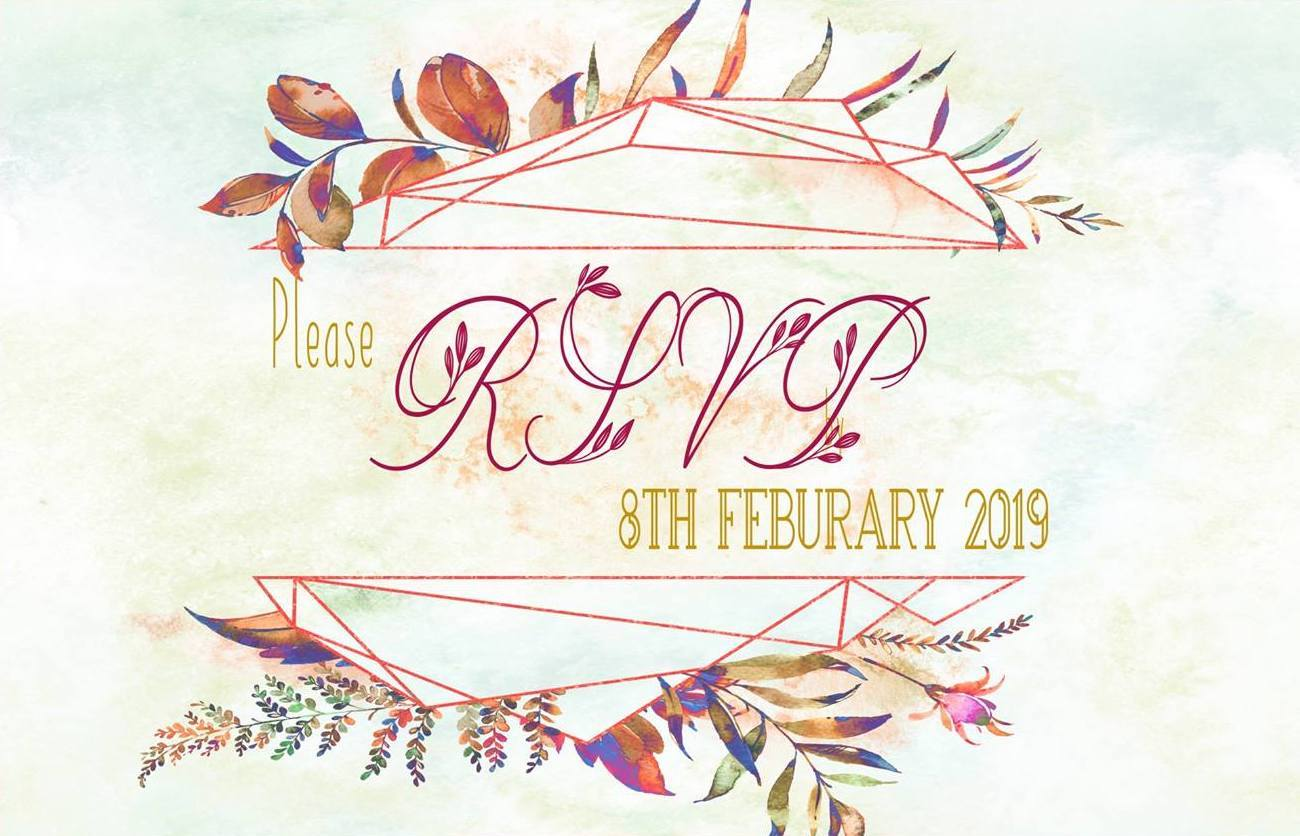
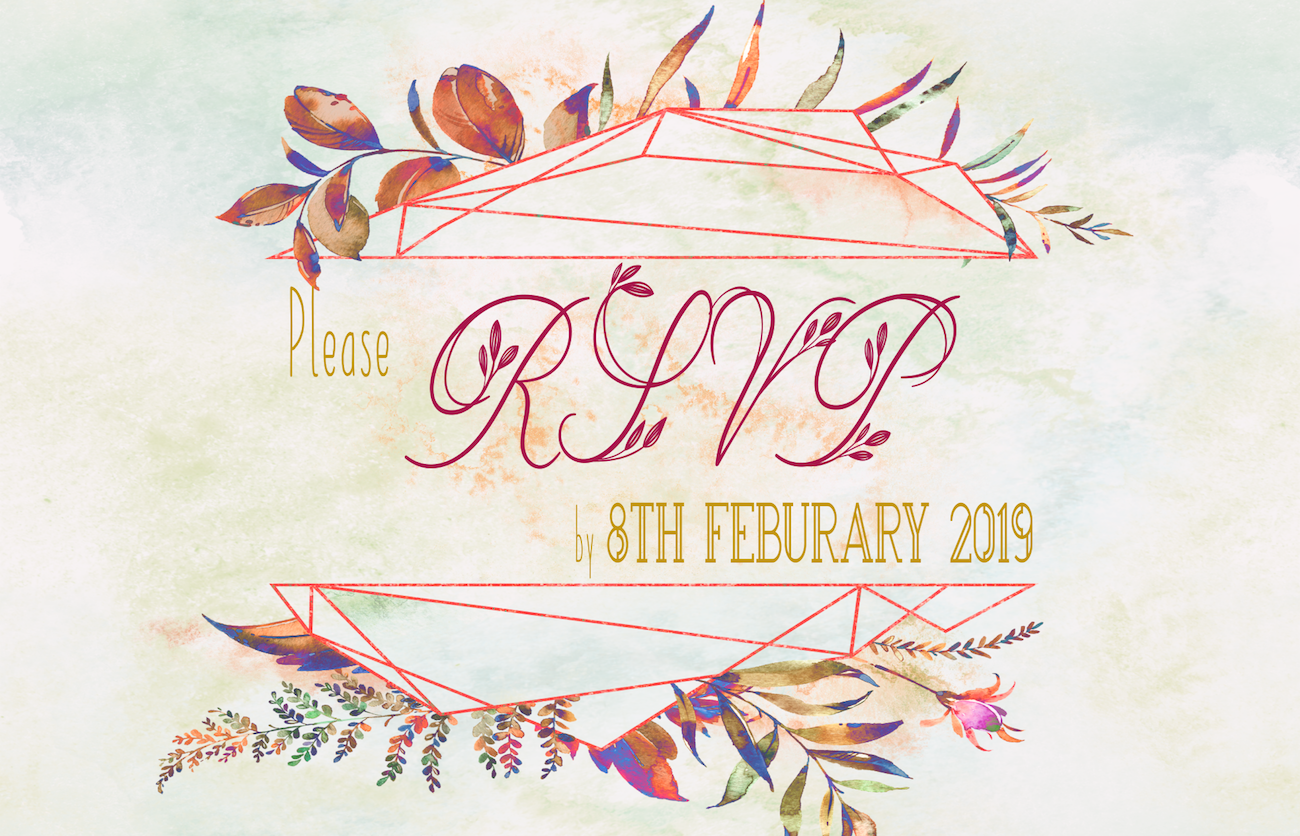
Updates include RSVP form, home background image, and countdown

Changed region(s): [[0.0923, 0.0, 0.8615, 1.0]]

diff --git a/static/index.html b/static/index.html
@@ -15,13 +15,22 @@
         <![endif]-->
         <link rel="stylesheet" href="css/screen.css">
         <script src="js/vendor/modernizr.touch.js"></script>
+        <script>
+            function ClickRSVPSection() {
+                document.getElementById("rsvp").getElementsByClassName('first')[0].style.visibility = "hidden";
+                document.getElementById("rsvp").getElementsByClassName('second')[0].style.visibility = "visible";
+            }
+        </script>
+        <script>
+            function ClickSubmitForm() {
+                document.getElementById("rsvp").getElementsByClassName('second')[0].style.visibility = "hidden";
+                document.getElementById("rsvp").getElementsByClassName('third')[0].style.visibility = "visible";
+            }
+        </script>
     </head>
 
     <body data-spy="scroll" data-target="#navigation">
         <div class="container">
-            <!--[if lt IE 7]>
-                <p class="chromeframe">You are using an <strong>outdated</strong> browser. Please <a href="http://browsehappy.com/">upgrade your browser</a> or <a href="http://www.google.com/chromeframe/?redirect=true">activate Google Chrome Frame</a> to improve your experience.</p>
-            <![endif]-->
             <section id="home" data-730="display:block;" data-731="display:none;">
                 <div class="image" data-10="top: 0px;" data-750="top: -60px;"></div>
                 <p id="daysCountdown"></p>
@@ -128,7 +137,52 @@
                 <a class="carousel-control right icn-slideshow-right" href="#gallery" data-slide="next">&rsaquo;</a>
             </section>-->
 
-            <section id="rsvp" data-bg="img/bg/backgroundObject6-0.jpg">
+            <section id="rsvp" onclick="ClickRSVPSection()">
+                <div class="first">
+
+                </div>
+                
+                <div class="second">
+                    <form class="form" action="https://docs.google.com/forms/d/e/1FAIpQLSctElK4MYsF1MHVGqvx45JdUXc2eZqYO9KFOZXX070PdbmJFQ/formResponse" method="POST"
+                    onsubmit="ClickSubmitForm()">
+                        <label>I</label>
+                        <select name="entry.365794943">
+                            <option selected disabled>Choose</option>
+                            <option value="Test">Test</option>
+                            <option value="Elisa Horne">Elisa Horne</option>
+                            <option value="Glenn Horne">Glenn Horne</option>
+                            <option value="Karen Horne">Karen Horne</option>
+                            <option value="Jarrod Horne">Jarrod Horne</option>
+                        </select>
+                        
+                        <label></label>
+                        <input type="radio" name="entry.1263165735" id="e1" value="Accept"/>
+                        <label for="e1">Gratefully accept</label>
+                        <input type="radio" name="entry.1263165735" id="e2" value="Decline"/>
+                        <label for="e2">Decline with regret</label>
+
+                        <label>Would you be interested in using a shuttle bus back to Berrima or Bowral at the end of the night?</label>
+                        <select name="entry.1211962599">
+                            <option selected disabled>Choose</option>
+                            <option value="Yes, to Berrima">Yes, to Berrima</option>
+                            <option value="Yes, to Bowral">Yes, to Bowral</option>
+                            <option value="No">No</option>
+                        </select>
+
+                        <label>Do you think you will be joining us for dinner on Sunday night?</label>
+                        <select name="entry.1772319321">
+                            <option selected disabled>Choose</option>
+                            <option value="Yes">Yes</option>
+                            <option value="No">No</option>
+                        </select>
+                
+                        <input type="submit" value="Send"/>
+                    </form>
+                </div>
+
+                <div class="third">
+
+                </div>
             </section>
             
             <section id="registry" data-bg="img/bg/backgroundObject5.jpg">
@@ -167,6 +221,7 @@
             <script src="js/vendor/skrollr.ie.min.js"></script>
         <![endif]-->
         <script src="js/main.js"></script>
+
         <script>
             (function(i,s,o,g,r,a,m){i['GoogleAnalyticsObject']=r;i[r]=i[r]||function(){
             (i[r].q=i[r].q||[]).push(arguments)},i[r].l=1*new Date();a=s.createElement(o),
@@ -205,6 +260,91 @@
                 document.getElementById("daysCountdown").innerHTML = "Tied the knot on April 8, 2019";
             }
             }, 1000);
+        </script>
+        <script type="text/javascript">
+            var FB_PUBLIC_LOAD_DATA_ = [null,[null,[[762129084,"Select Your Name",null,3,
+            [[365794943,[["Karen Horne",null,2027755872,null,0]
+            ,["Glenn Horne",null,1202977443,null,0]
+            ,["Elisa Horne",null,1910569673,null,0]
+            ,["Lachlan Ma",null,852915707,null,0]
+            ,["Lorraine Robertson",null,-2,null,0]
+            ,["Test",null,-2,null,0]
+            ]
+            ,1,null,null,null,null,null,0]
+            ]
+            ]
+            ,[1701974672,null,null,2,[[1263165735,[["Gratefully Accept",null,null,null,0]
+            ,["Decline With Regret",null,null,null,0]
+            ]
+            ,1,null,null,null,null,null,0]
+            ]
+            ]
+            ,[2136973238,"Would you be interested in using a shuttle bus back to Berrima or Bowral at the end of the night?",null,3,[[1211962599,[["Yes",null,-2,null,0]
+            ,["No",null,-2,null,0]
+            ,["Maybe",null,-2,null,0]
+            ]
+            ,1,null,null,null,null,null,0]
+            ]
+            ]
+            ,[1855001924,"Do you think you will be joining us for dinner on Sunday night?",null,3,[[1772319321,[["Yes",null,null,null,0]
+            ,["No",null,null,null,0]
+            ,["Maybe",null,null,null,0]
+            ]
+            ,1,null,null,null,null,null,0]
+            ]
+            ]
+            ,[75878095,null,null,8,null,-3]
+            ,[1519065388,"Which town would you want a shuttle bus to?",null,3,[[1572815929,[["Berrima",null,null,null,0]
+            ,["Bowral",null,null,null,0]
+            ,["Either",null,null,null,0]
+            ]
+            ,0,null,null,null,null,null,0]
+            ]
+            ]
+            ,[2027755872,"Karen Horne Selected",null,8,null,-3]
+            ,[87089643,null,null,3,[[1827777894,[["Glenn Horne",null,null,null,0]
+            ]
+            ,0,null,null,null,null,null,0]
+            ]
+            ]
+            ,[1202977443,"Glenn Horne Selected",null,8]
+            ,[1290522336,null,null,3,[[1870214740,[["Karen Horne",null,null,null,0]
+            ]
+            ,0,null,null,null,null,null,0]
+            ]
+            ]
+            ,[1910569673,"Elisa Horne Selected",null,8]
+            ,[2128785363,null,null,3,[[548647646,[["Lachlan Ma",null,null,null,0]
+            ]
+            ,0,null,null,null,null,null,0]
+            ]
+            ]
+            ,[852915707,"Lachlan Ma Selected",null,8]
+            ,[1061048219,null,null,3,[[492798150,[["Elisa Horne",null,null,null,0]
+            ]
+            ,0,null,null,null,null,null,0]
+            ]
+            ]
+            ]
+            ,["Thank you for your RSVP",0,0,0,0]
+            ,null,null,[0,0]
+            ,null,null,"RSVP",38,[null,0,null,2,0]
+            ,null,null,null,null,[2]
+            ,[[1,1,1,1,1]
+            ,1]
+            ,null,[]
+            ]
+            ,"/forms","Wedding RSVP","",["1qVTJNs2S5Gy8WGU8V2c4qtYmlldR4UsaCmSo8A9I6yI",3,["1758416516"]
+            ]
+            ,[[1,"https://docs.google.com/[domain]spreadsheet/ccc?key\u003d[key]\u0026usp\u003d[usp]#gid\u003dform"]
+            ,[2,"//www.google.com/fusiontables/data?docid\u003d[key]"]
+            ,[3,"https://docs.google.com/[domain]spreadsheets/d/[key]?usp\u003d[usp]#gid\u003d[grid]"]
+            ]
+            ,"0","",0,0,"","",0,"e/1FAIpQLSctElK4MYsF1MHVGqvx45JdUXc2eZqYO9KFOZXX070PdbmJFQ",1]
+            ;</script>
+
+        <script id="base-js" 
+            src="https://www.gstatic.com/_/freebird/_/js/k=freebird.v.en.CF2rp0Cjp3s.O/m=viewer_base/rt=j/d=1/rs=AMjVe6jcOdeh_KPNqoU2wPMpjiH7JT6KbQ">
         </script>
 
         <![if !IE]>

diff --git a/static/css/screen.css b/static/css/screen.css
@@ -514,7 +514,7 @@ h1, h2, h3, h4, h5, h6 {
   font-family: "Limerence";
   right: 0px;
   left: 0px;
-  Top: 40%;
+  Top: 30%;
   font-size: 60px;
   font-weight: 300;
   text-align: center;
@@ -675,7 +675,7 @@ z-index:99999;
   height: 836px;
 }
 
-#weekend-activities {
+#weekend-activities{
   height: 836px;
 }
 
@@ -683,89 +683,40 @@ z-index:99999;
 #registry {
   height: 836px;
 }
-/* line 706, ../sass/screen.scss */
-#registry .links {
-  overflow: hidden;
-  *zoom: 1;
-  width: 600px;
-  margin: 40px auto;
-}
-/* line 712, ../sass/screen.scss */
-#registry .links div {
-  float: left;
-  width: 33%;
-  text-align: center;
-}
-/* line 718, ../sass/screen.scss */
-#registry .links a {
-  display: inline-block;
-}
-/* line 722, ../sass/screen.scss */
-.ie7 #registry .links a {
-  display: block;
-  margin-left: 35%;
-}
 
 /* line 703, ../sass/screen.scss */
 #rsvp {
   height: 836px;
 }
 
-/* line 731, ../sass/screen.scss */
-#travel {
-  height: 614px;
-}
-/* line 734, ../sass/screen.scss */
-#travel .links {
-  margin: 30px 0;
-  overflow: hidden;
-  *zoom: 1;
-}
-/* line 738, ../sass/screen.scss */
-#travel .links a {
-  float: left;
-  margin: 0 55px 0 20px;
-}
-/* line 743, ../sass/screen.scss */
-#travel .links .heading-book-by-phone {
-  float: right;
-  margin: 0 20px 0 0;
+#rsvp .first {
+  visibility: visible;
+  position: absolute;
+  left: 0;
+  top: 0;
+  height: 100%;
+  width: 100%;
+  background: url(../img/bg/backgroundObject6-0.jpg) no-repeat left top;
 }
 
-/* line 751, ../sass/screen.scss */
-#to-do-to-eat {
-  height: 912px;
+#rsvp .second {
+  visibility: hidden;
+  position: absolute;
+  left: 0;
+  top: 0;
+  height: 100%;
+  width: 100%;
+  background: url(../img/bg/backgroundObject6-1.jpg) no-repeat left top;
 }
-/* line 754, ../sass/screen.scss */
-#to-do-to-eat .suggestions {
-  overflow: hidden;
-  *zoom: 1;
-}
-/* line 757, ../sass/screen.scss */
-#to-do-to-eat .suggestions h4 {
-  font-family: "brandon", sans-serif;
-  margin-bottom: 15px;
-  text-transform: uppercase;
-  font-size: 16px;
-  font-size: 1.14286rem;
-  letter-spacing: 1px;
-}
-/* line 765, ../sass/screen.scss */
-#to-do-to-eat .suggestions div {
-  float: left;
-  width: 253px;
-}
-/* line 770, ../sass/screen.scss */
-#to-do-to-eat .suggestions li {
-  margin-bottom: 15px;
-}
-/* line 773, ../sass/screen.scss */
-#to-do-to-eat .suggestions li a {
-  color: #a29061;
-}
-/* line 779, ../sass/screen.scss */
-#to-do-to-eat .heading-to-eat {
-  margin-top: 100px;
+
+#rsvp .third {
+  visibility: hidden;
+  position: absolute;
+  left: 0;
+  top: 0;
+  height: 100%;
+  width: 100%;
+  background: url(../img/bg/backgroundObject6-2.jpg) no-repeat left top;
 }
 
 /* line 784, ../sass/screen.scss */
